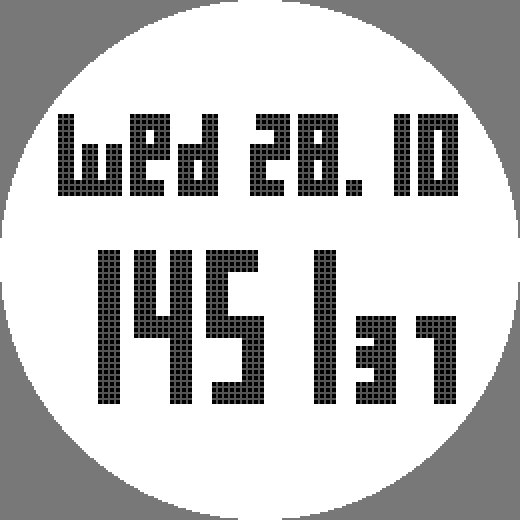
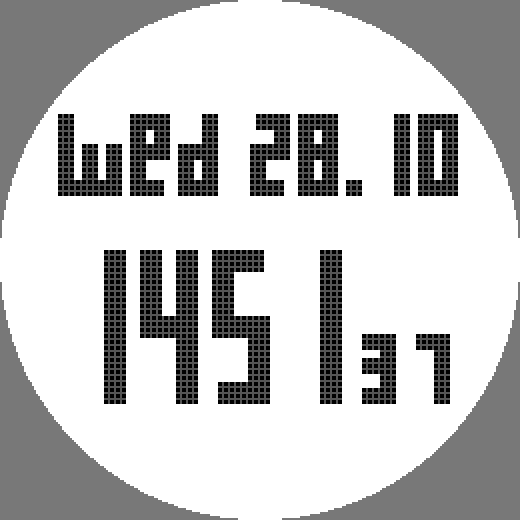
Smaller, thinner seconds (7x12 dots, 3-dot segments)
Claude-Session: https://claude.ai/code/session_01W6d35G3fp5micouApmvB6d

diff --git a/tools/dotfont.py b/tools/dotfont.py
@@ -179,7 +179,7 @@ LETTERS = "".join(sorted(set("SunMonTueWedThuFriSat")))
 
 # Шрифты циферблата (размеры подобраны под экран Fenix 6, 260x260)
 BIG = DotFont("big_dots", w=10, h=26, t=4, cell=3, dot=2, gap=2, chars=DIGITS + ":")
-SEC = DotFont("sec_dots", w=8, h=15, t=4, cell=3, dot=2, gap=2, chars=DIGITS)
+SEC = DotFont("sec_dots", w=7, h=12, t=3, cell=3, dot=2, gap=2, chars=DIGITS)
 SMALL = DotFont("small_dots", w=7, h=14, t=3, cell=3, dot=2, gap=1,
                 chars=DIGITS + ".- " + LETTERS)  # дата
 
